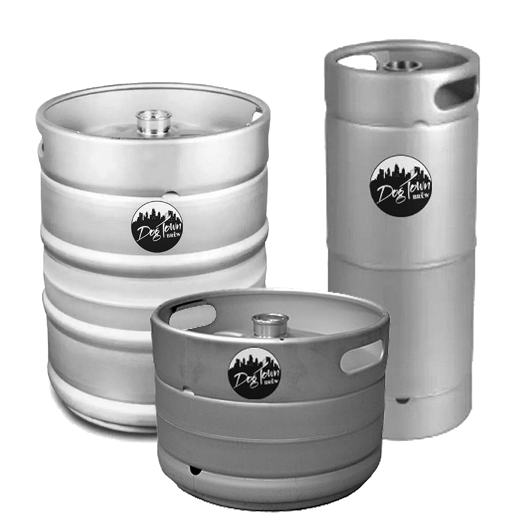
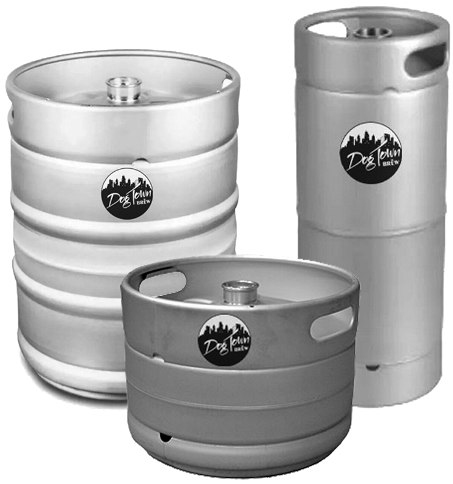
mobile fix

diff --git a/index.html b/index.html
@@ -232,11 +232,11 @@
             <p>CONTATO</p>
             <p>(16) 99769-8989</p>
             <p>email: dogtown@hotmail.com</p>
-            <p>Rua Batatais, 123 - Jd. Paulista, Ribeirão Preto-SP</p>
+            <p>Rua Batatais, 123 - Jd. Paulista, <br>Ribeirão Preto-SP</p>
         </div>
 
         <div class="developer">
-            <p>DESENVOLVIDO POR:</p>
+            <p>DESENVOLVIDO <br>POR:</p>
             <a href="https://github.com/LuizMura" target="_blank">
             <img src="img/index/luiz.png">
         </a>

diff --git a/css/index.css b/css/index.css
@@ -387,16 +387,16 @@ margin-right: 2vw;
    }
    .barril img {
     max-height: 42%;
-    margin-top: 12rem;
-    margin-left: rem;
+    margin-top: 50vw;
+    margin-left: 3vw;
    }
     .texto-chope {
      font-family: lato;
      font-style: italic;
-     font-size: 15px;
+     font-size: 4vw;
      line-height: 1.7cap;
      margin-top: 3vh;
-     margin-left: -24.5rem;
+     margin-left: -21.5rem;
      padding-right: 10px;
     }
 
